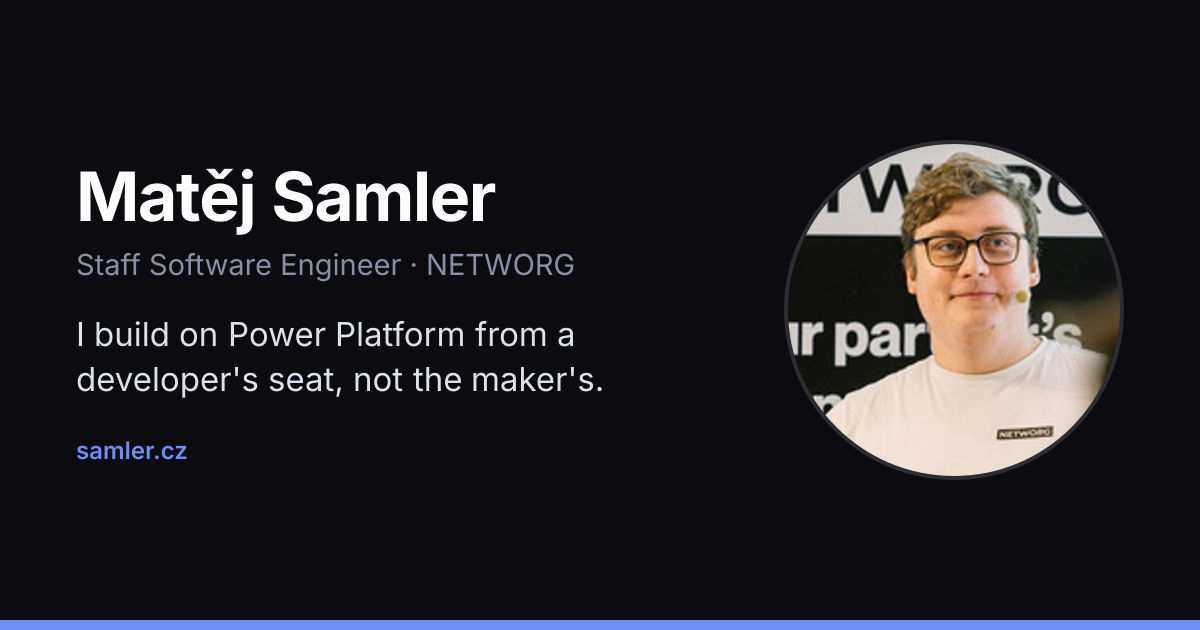
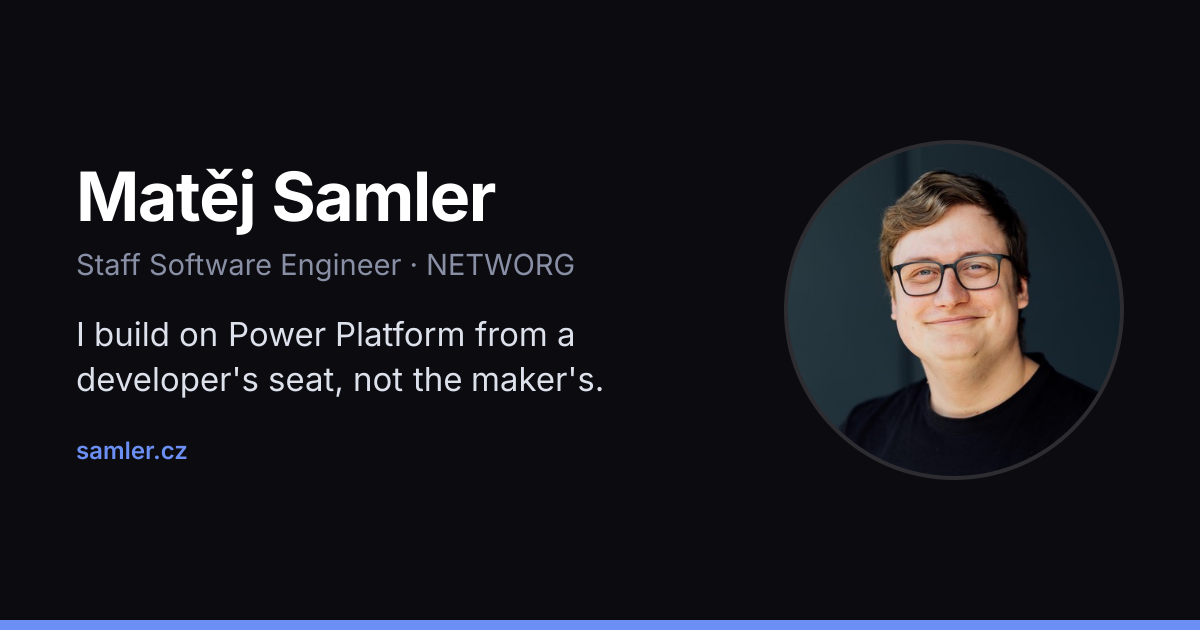
Use the studio headshot
Replaces the cropped conference snapshot with the studio portrait: a
1000x1000 head-and-shoulders cut with enough headroom to survive the
circular mask, and framed so the shirt logo stays out of the crop. The
photo's dark background sits well against the page.

Regenerates og.png from it. The old hotlinked-and-recropped conference
photo is gone; README records the crop box so the framing can be redone
from the original.

Changed region(s): [[0.6475, 0.2111, 0.9558, 0.754]]

diff --git a/README.md b/README.md
@@ -68,6 +68,11 @@ it after changing the headshot, `public/favicon.svg`, or the name/title/tagline 
 The OG image is what LinkedIn and Slack show when the site is shared, so check it after
 regenerating.
 
+`src/assets/headshot.jpg` is a 1000×1000 square cut from the full-frame studio portrait
+(`R5JM0459.jpg`, 4669×7000) with `extract({left: 217, top: 340, width: 4102, height: 4102})`
+— head-and-shoulders with enough headroom to survive the circular mask. Recrop from the
+original if you need a different framing; the master isn't committed.
+
 ## Before deploying
 
 ```bash
